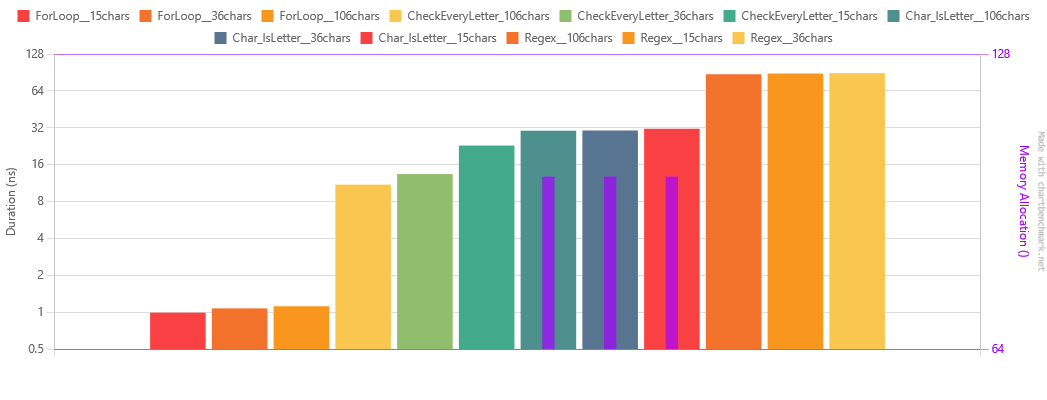
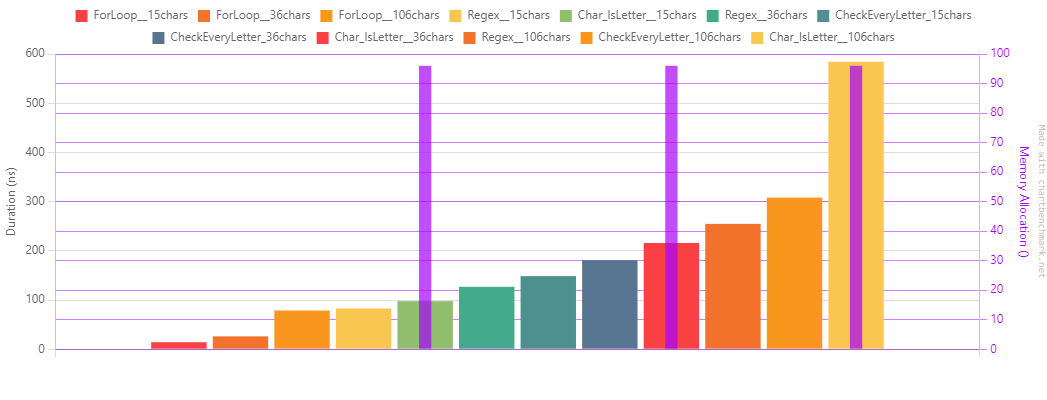
Fixed last benchmark

diff --git a/Raccoon.Ninja.Application.Benchmarks/Benchmarks/StringContainsLetterBenchmark.cs b/Raccoon.Ninja.Application.Benchmarks/Benchmarks/StringContainsLetterBenchmark.cs
@@ -10,11 +10,11 @@ namespace Raccoon.Ninja.Application.Benchmarks.Benchmarks;
  Orderer(SummaryOrderPolicy.FastestToSlowest)]
 public class StringContainsLetterBenchmark
 {
-    private const string Text15Chars = "TheQuickBrownF8";
-    private const string Text36Chars = "TheQuickBrownFoxJumpsOverTheLazyDog8";
+    private const string Text15Chars = "12#@!23$#@@%$2B";
+    private const string Text36Chars = "!@#!#$%!#@$123123!@#1231@#!@#123233B";
 
     private const string Text106Chars =
-        "TheQuickBrownFoxJumpsOverTheLazyDogTheQuickBrownFoxJumpsOverTheLazyDogTheQuickBrownFoxJumpsOverTheLazyDog8";
+        "!@#!@#!#$%#$%#$%@#!@#!@#!@#!@#!@#!@#!@#!$@#$%#$%^$%^%^&%*^&*$%^#$%@#$@#$@#$%$%^%^&%^$%%231231231251233333B";
 
     private static readonly Regex _regex = new("[a-zA-Z]");
 

diff --git a/stringcontainsletterbenchmark.md b/stringcontainsletterbenchmark.md
@@ -21,20 +21,20 @@ To keep things fair, I didn't create any methods to avoid any extra overhead.
 
 
 # Results
-| Method                    |       Mean |     Error |    StdDev |        Min |        Max |    Median | Rank |   Gen0 | Allocated |
-|---------------------------|-----------:|----------:|----------:|-----------:|-----------:|----------:|-----:|-------:|----------:|
-| ForLoop__15chars          |  0.9939 ns | 0.0562 ns | 0.1210 ns |  0.6479 ns |   1.201 ns |  1.022 ns |    1 |      - |         - |
-| ForLoop__36chars          |  1.0775 ns | 0.0573 ns | 0.1568 ns |  0.7525 ns |   1.486 ns |  1.081 ns |    2 |      - |         - |
-| ForLoop__106chars         |  1.1202 ns | 0.0577 ns | 0.1561 ns |  0.7076 ns |   1.396 ns |  1.153 ns |    2 |      - |         - |
-| CheckEveryLetter_106chars | 11.0072 ns | 0.2553 ns | 0.7489 ns |  9.2790 ns |  12.478 ns | 11.017 ns |    3 |      - |         - |
-| CheckEveryLetter_36chars  | 13.4291 ns | 0.3031 ns | 0.8647 ns | 11.2394 ns |  15.284 ns | 13.346 ns |    4 |      - |         - |
-| CheckEveryLetter_15chars  | 22.9388 ns | 0.4909 ns | 1.3273 ns | 19.4873 ns |  25.409 ns | 22.923 ns |    5 |      - |         - |
-| Char_IsLetter__106chars   | 30.3280 ns | 0.7342 ns | 2.1647 ns | 25.9324 ns |  35.202 ns | 30.244 ns |    6 | 0.0153 |      96 B |
-| Char_IsLetter__36chars    | 30.4214 ns | 0.6429 ns | 1.7271 ns | 26.4854 ns |  34.132 ns | 30.541 ns |    6 | 0.0153 |      96 B |
-| Char_IsLetter__15chars    | 31.4383 ns | 0.7527 ns | 2.2195 ns | 26.2246 ns |  35.865 ns | 31.559 ns |    7 | 0.0153 |      96 B |
-| Regex__106chars           | 87.5616 ns | 1.7722 ns | 4.9401 ns | 74.5559 ns |  99.180 ns | 87.417 ns |    8 |      - |         - |
-| Regex__15chars            | 88.8317 ns | 1.8393 ns | 5.4233 ns | 76.8334 ns | 100.587 ns | 88.492 ns |    8 |      - |         - |
-| Regex__36chars            | 89.3708 ns | 2.2892 ns | 6.7138 ns | 74.5330 ns | 105.434 ns | 87.850 ns |    8 |      - |         - |
+| Method                    |      Mean |    Error |   StdDev |       Min |       Max |    Median | Rank |   Gen0 | Allocated |
+|---------------------------|----------:|---------:|---------:|----------:|----------:|----------:|-----:|-------:|----------:|
+| ForLoop__15chars          |  14.20 ns | 0.308 ns | 0.442 ns |  13.34 ns |  14.85 ns |  14.22 ns |    1 |      - |         - |
+| ForLoop__36chars          |  26.09 ns | 0.226 ns | 0.200 ns |  25.78 ns |  26.57 ns |  26.02 ns |    2 |      - |         - |
+| ForLoop__106chars         |  78.65 ns | 1.578 ns | 1.399 ns |  74.65 ns |  80.33 ns |  79.04 ns |    3 |      - |         - |
+| Regex__15chars            |  82.90 ns | 1.351 ns | 1.264 ns |  81.34 ns |  85.42 ns |  82.50 ns |    4 |      - |         - |
+| Char_IsLetter__15chars    |  97.66 ns | 1.274 ns | 1.129 ns |  95.89 ns |  99.88 ns |  97.55 ns |    5 | 0.0153 |      96 B |
+| Regex__36chars            | 126.86 ns | 1.407 ns | 1.316 ns | 124.66 ns | 128.74 ns | 126.50 ns |    6 |      - |         - |
+| CheckEveryLetter_15chars  | 148.55 ns | 1.225 ns | 1.146 ns | 146.90 ns | 150.46 ns | 148.41 ns |    7 |      - |         - |
+| CheckEveryLetter_36chars  | 180.93 ns | 3.409 ns | 6.486 ns | 170.67 ns | 198.11 ns | 179.58 ns |    8 |      - |         - |
+| Char_IsLetter__36chars    | 215.84 ns | 1.593 ns | 1.412 ns | 214.37 ns | 218.45 ns | 215.29 ns |    9 | 0.0153 |      96 B |
+| Regex__106chars           | 254.73 ns | 1.478 ns | 1.382 ns | 252.88 ns | 257.52 ns | 254.82 ns |   10 |      - |         - |
+| CheckEveryLetter_106chars | 308.13 ns | 4.883 ns | 6.684 ns | 301.71 ns | 326.79 ns | 306.21 ns |   11 |      - |         - |
+| Char_IsLetter__106chars   | 584.24 ns | 4.092 ns | 3.827 ns | 578.77 ns | 593.64 ns | 583.25 ns |   12 | 0.0153 |      96 B |
 
 ![Result Chart](./stringcontainsletterbenchmark.png)
 
